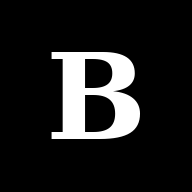
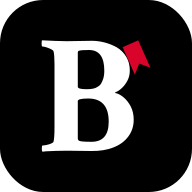
aggiornamento icone e header

diff --git a/index.html b/index.html
@@ -6,7 +6,7 @@
 <script src="config.js"></script>
 <link rel="manifest" href="manifest.webmanifest">
 <link rel="icon" type="image/png" href="icon-192.png">
-<link rel="apple-touch-icon" href="icon-192.png">
+<link rel="apple-touch-icon" href="icon-512-maskable.png">
 <meta name="theme-color" content="#ffffff" media="(prefers-color-scheme: light)">
 <meta name="theme-color" content="#000000" media="(prefers-color-scheme: dark)">
 <title>Bookì</title>
@@ -19,6 +19,7 @@ body{font-family:system-ui,-apple-system,"Segoe UI",Roboto,sans-serif;background
 .max-w{max-width:560px;margin:0 auto}
 header{display:flex;justify-content:space-between;align-items:flex-end;gap:12px;padding-bottom:16px;border-bottom:2px solid var(--fg);margin-bottom:22px}
 h1{font-family:var(--serif);font-size:2rem;font-weight:700;letter-spacing:-.02em;margin:0;line-height:1}
+.wordmark{display:block;height:31px;width:auto;overflow:visible}
 .muted{color:var(--mut)}
 .label{font-size:10px;font-weight:700;letter-spacing:.14em;text-transform:uppercase;color:var(--mut);margin:0 0 10px}
 .card{margin-bottom:26px}
@@ -112,7 +113,7 @@ textarea.edit-in{min-height:140px;resize:vertical;line-height:1.55}
 <body>
 <div class="max-w">
 <header>
- <div><h1>Bookì</h1><p id="counter" class="muted" style="font-size:12px;margin:6px 0 0">0 libri in lista</p></div>
+ <div><h1 aria-label="Bookì"><svg class="wordmark" viewBox="0 0 2588 735" aria-hidden="true" focusable="false"><path fill="currentColor" d="M41 724Q37 720 37 707Q37 687 41 687Q49 687 64 684Q79 681 92 675.5Q105 670 107 665Q113 642 113 577V199Q113 143 107 121Q105 115 91.5 108.5Q78 102 63 97.5Q48 93 40 93Q36 93 36 75Q36 59 39 56Q79 58 115.5 59.5Q152 61 186 61L337 59Q374 59 412 68.5Q450 78 486 98Q521 118 543 154Q565 190 565 237Q565 271 550.5 298Q536 325 517 342.5Q498 360 482 366Q474 369 477 372Q501 376 526.5 397Q552 418 570 452.5Q588 487 588 533Q588 590 556 633Q524 676 467 698.5Q410 721 334 720L187 718Q157 718 120.5 719.5Q84 721 62 722ZM305 349Q344 349 362 340Q378 332 385 325Q393 318 402.5 295.5Q412 273 412 238Q412 114 320 114Q274 114 262 118Q253 119 253 130V335Q253 349 305 349ZM335 665Q438 665 438 544Q438 405 315 405Q284 405 264 410Q253 415 253 419V644Q253 654 260 658Q270 665 335 665ZM870 727Q805 727 751.5 696.5Q698 666 666.5 614.5Q635 563 635 500Q635 436 666.5 385Q698 334 751.5 303.5Q805 273 870 273Q936 273 989 303.5Q1042 334 1073.5 385Q1105 436 1105 500Q1105 563 1074 614.5Q1043 666 989.5 696.5Q936 727 870 727ZM880 672Q908 672 926 653Q944 634 952.5 602.5Q961 571 961 535Q961 328 856 328Q828 328 810.5 348Q793 368 785 400Q777 432 777 469Q777 672 880 672ZM1387 727Q1322 727 1268.5 696.5Q1215 666 1183.5 614.5Q1152 563 1152 500Q1152 436 1183.5 385Q1215 334 1268.5 303.5Q1322 273 1387 273Q1453 273 1506 303.5Q1559 334 1590.5 385Q1622 436 1622 500Q1622 563 1591 614.5Q1560 666 1506.5 696.5Q1453 727 1387 727ZM1397 672Q1425 672 1443 653Q1461 634 1469.5 602.5Q1478 571 1478 535Q1478 328 1373 328Q1345 328 1327.5 348Q1310 368 1302 400Q1294 432 1294 469Q1294 672 1397 672ZM1673 724Q1669 720 1669 703Q1669 687 1673 687Q1681 687 1696 682.5Q1711 678 1724 672Q1737 666 1738 662Q1745 634 1745 586V189Q1745 166 1743.5 148Q1742 130 1740 117Q1736 101 1688 101H1679Q1673 101 1673 81Q1673 64 1679 64Q1718 60 1754.5 53Q1791 46 1819.5 38.5Q1848 31 1862 28L1874 25Q1878 24 1882 30.5Q1886 37 1887 42Q1875 87 1875 143V461Q1902 453 1909 448Q1929 431 1951.5 412Q1974 393 1993 376Q2010 361 2018.5 351.5Q2027 342 2027 332Q2027 318 2010 317.5Q1993 317 1981 315Q1980 311 1979.5 306Q1979 301 1979 294Q1979 280 1983 279L2097 280Q2126 280 2152.5 279.5Q2179 279 2201 278Q2205 279 2205.5 288.5Q2206 298 2205 306.5Q2204 315 2202 315Q2172 315 2132 338Q2063 378 1995 447Q2073 532 2121.5 589.5Q2170 647 2189 661Q2202 672 2223 679.5Q2244 687 2253 687Q2258 687 2258 706Q2258 717 2256 723L2130 717Q2118 716 2099 717.5Q2080 719 2054 721L1997 724Q1993 720 1993 703Q1993 687 1997 687Q2007 687 2020 683Q2033 679 2033 674Q2033 672 2032 671L1886 504L1875 507V571Q1875 637 1882 662Q1884 666 1897 672Q1910 678 1924.5 682.5Q1939 687 1945 687Q1947 687 1948 695Q1949 703 1949 712Q1949 721 1947 724Q1941 724 1924 722.5Q1907 721 1884.5 719.5Q1862 718 1842 717Q1822 716 1810 716Q1798 716 1777.5 717Q1757 718 1735 719.5Q1713 721 1696 722.5Q1679 724 1673 724ZM2289 724Q2285 720 2285 705Q2285 690 2289 690Q2297 690 2310 686Q2323 682 2335 676Q2347 670 2348 665Q2355 637 2355 589V443Q2355 387 2337 368Q2329 358 2315.5 354Q2302 350 2292 348.5Q2282 347 2282 345Q2282 316 2287 316Q2296 316 2320 312Q2344 308 2373.5 302Q2403 296 2429.5 290Q2456 284 2470 280L2481 277Q2486 277 2491 283.5Q2496 290 2496 294Q2491 338 2488 363Q2485 388 2485 394V574Q2485 631 2493 665Q2495 669 2506.5 675Q2518 681 2531 685.5Q2544 690 2549 690Q2552 690 2552.5 705Q2553 720 2551 724Q2543 723 2517.5 721.5Q2492 720 2464 718Q2436 716 2420 716Q2404 716 2376 718Q2348 720 2323 721.5Q2298 723 2289 724Z"/><path fill="#d90429" d="M2333.8 66.5 L2427 25 L2500.2 189.4 L2433.3 164.5 L2407 230.9Z"/></svg></h1><p id="counter" class="muted" style="font-size:12px;margin:6px 0 0">0 libri in lista</p></div>
  <button type="button" id="btn-scanner" class="small-btn">Scansiona ISBN</button>
 </header>
 <div id="goal-box"></div>
